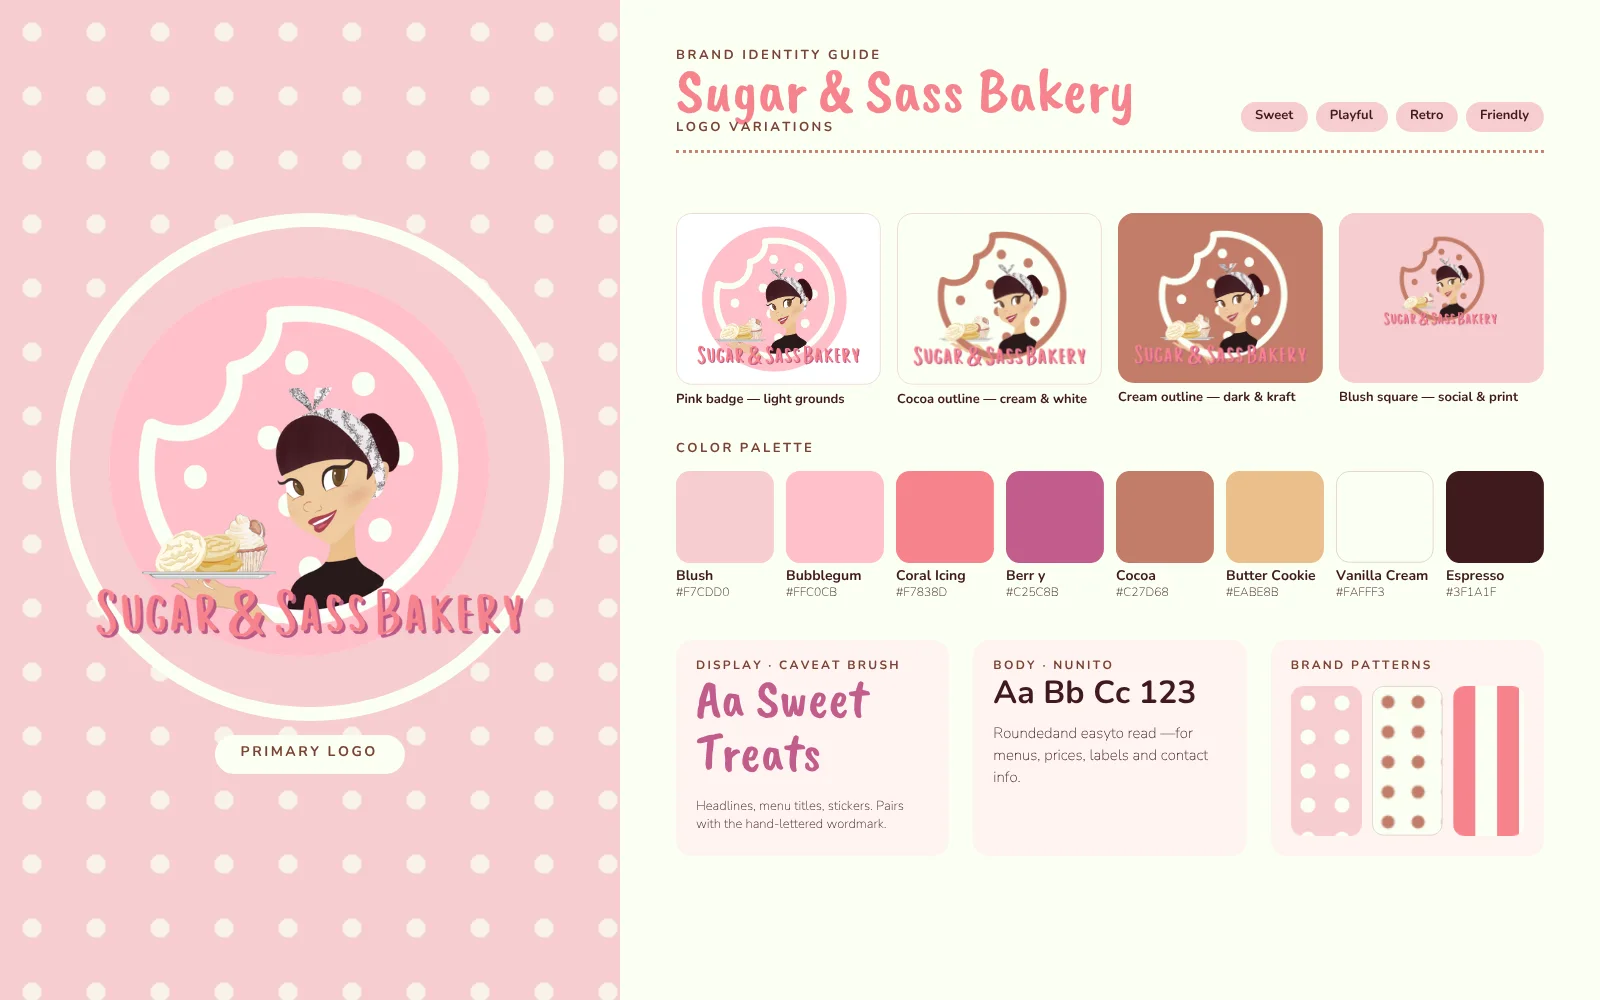
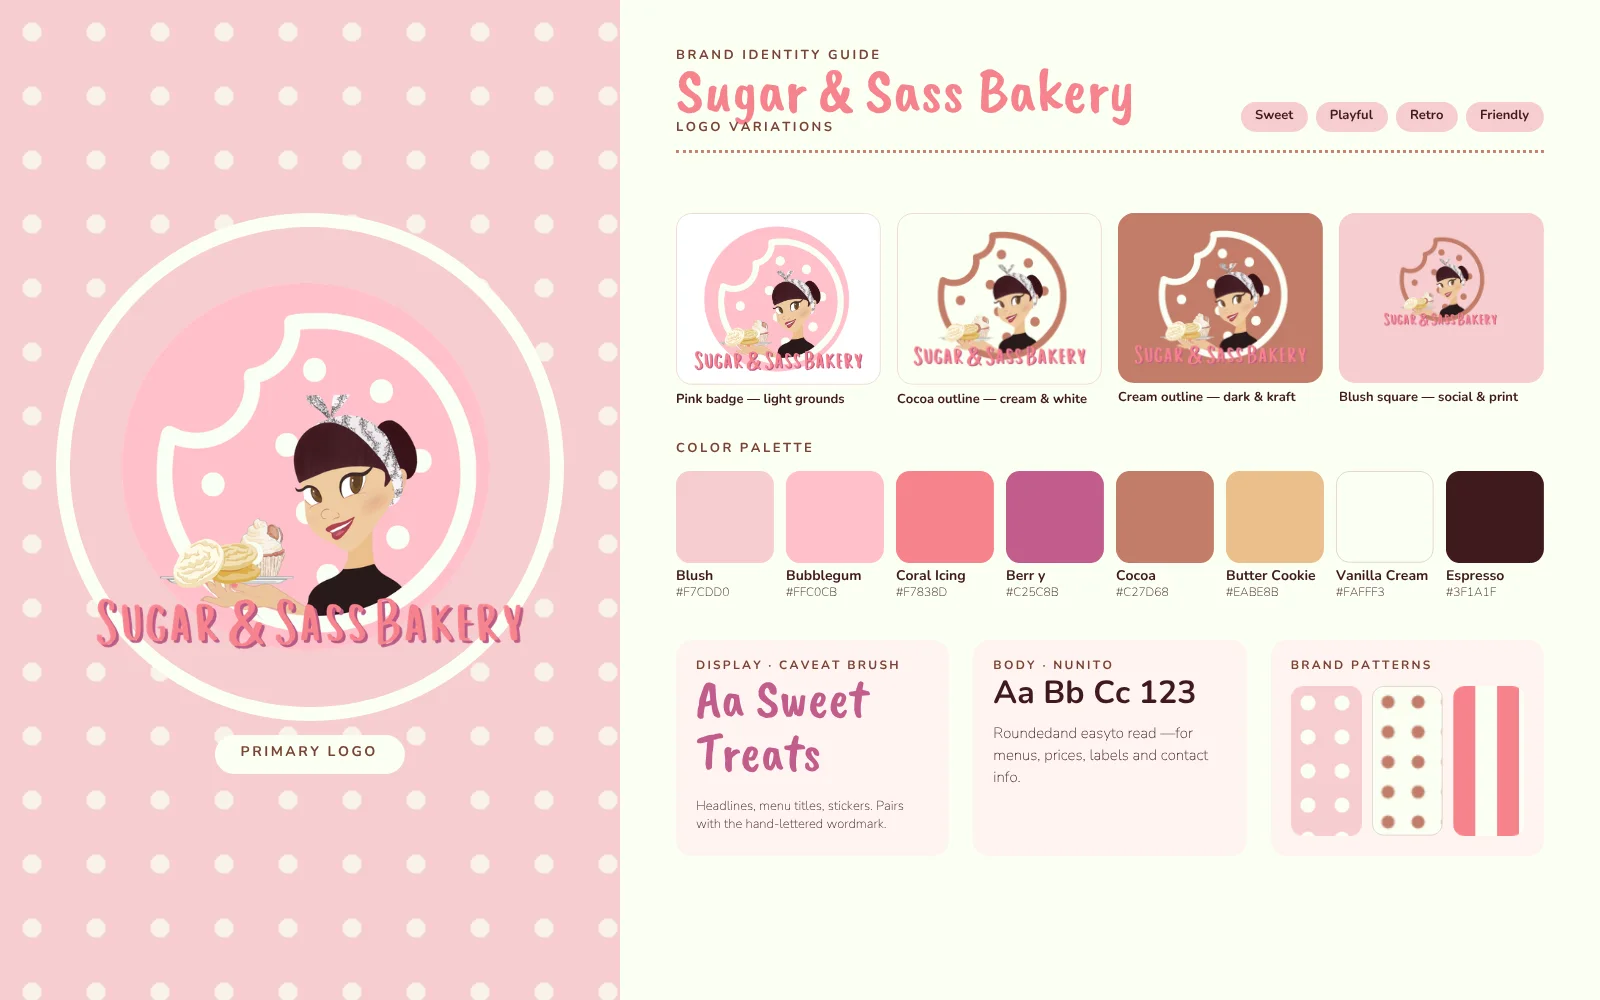
Add files via upload

diff --git a/index.html b/index.html
@@ -306,13 +306,13 @@
       </header>
 
       <h3>Logo</h3>
-      <p>A baker character inside a bitten cookie, with versions for light, dark and pink backgrounds and one with a QR code for print.</p>
+      <p>A baker character inside a bitten cookie, with pink and chocolate chip versions and one with a QR code for print.</p>
       <div class="gallery gallery-5 ss-logos">
-        <figure><img src="images/ss-logo-1.webp" alt="Sugar and Sass Bakery logo on black" loading="lazy" width="700" height="700"></figure>
-        <figure><img src="images/ss-logo-2.webp" alt="Sugar and Sass Bakery logo, brown cookie version on black" loading="lazy" width="700" height="700"></figure>
-        <figure><img src="images/ss-logo-3.webp" alt="Sugar and Sass Bakery logo on pink" loading="lazy" width="700" height="700"></figure>
-        <figure><img src="images/ss-logo-4.webp" alt="Sugar and Sass Bakery logo, white outline version on black" loading="lazy" width="700" height="700"></figure>
-        <figure><img src="images/ss-logo-5.webp" alt="Sugar and Sass Bakery logo on pink with a Facebook QR code" loading="lazy" width="700" height="700"></figure>
+        <figure><img src="images/ss-logo-1.webp" alt="Sugar and Sass Bakery primary logo" loading="lazy" width="700" height="700"></figure>
+        <figure><img src="images/ss-logo-2.webp" alt="Sugar and Sass Bakery logo with a Facebook QR code" loading="lazy" width="700" height="700"></figure>
+        <figure><img src="images/ss-logo-3.webp" alt="Sugar and Sass Bakery logo, wordmark version" loading="lazy" width="700" height="700"></figure>
+        <figure><img src="images/ss-logo-4.webp" alt="Sugar and Sass Bakery logo, chocolate chip cookie version" loading="lazy" width="700" height="700"></figure>
+        <figure><img src="images/ss-logo-5.webp" alt="Sugar and Sass Bakery logo, cookie outline version" loading="lazy" width="700" height="700"></figure>
       </div>
 
       <h3>Brand identity</h3>
@@ -387,7 +387,7 @@
       <div class="gallery gallery-3">
         <figure><button class="zoom" data-full="images/he-post-3-signs.webp"><img src="images/he-post-3-signs.webp" alt="Post: 3 signs your website is costing you customers" loading="lazy" width="900" height="900"></button></figure>
         <figure><button class="zoom" data-full="images/he-post-one-team.webp"><img src="images/he-post-one-team.webp" alt="Post: Three jobs. One team." loading="lazy" width="900" height="900"></button></figure>
-        <figure><button class="zoom" data-full="images/he-post-which-one.webp"><img src="images/he-post-which-one.webp" alt="Post: Which one are you? A poll about the age of your website" loading="lazy" width="900" height="900"></button></figure>
+        <figure><button class="zoom" data-full="images/he-post-reply.webp"><img src="images/he-post-reply.webp" alt="Post: Reply in the first hour, a social media tip from Haute eLeMent" loading="lazy" width="900" height="900"></button></figure>
         <figure><button class="zoom" data-full="images/he-post-discovery.webp"><img src="images/he-post-discovery.webp" alt="Post: We start with questions, not templates." loading="lazy" width="900" height="900"></button></figure>
         <figure><button class="zoom" data-full="images/he-post-build.webp"><img src="images/he-post-build.webp" alt="Post: Built to load in under two seconds." loading="lazy" width="900" height="900"></button></figure>
         <figure><button class="zoom" data-full="images/he-post-slots.webp"><img src="images/he-post-slots.webp" alt="Post: 3 build slots left, websites from $499" loading="lazy" width="900" height="900"></button></figure>
